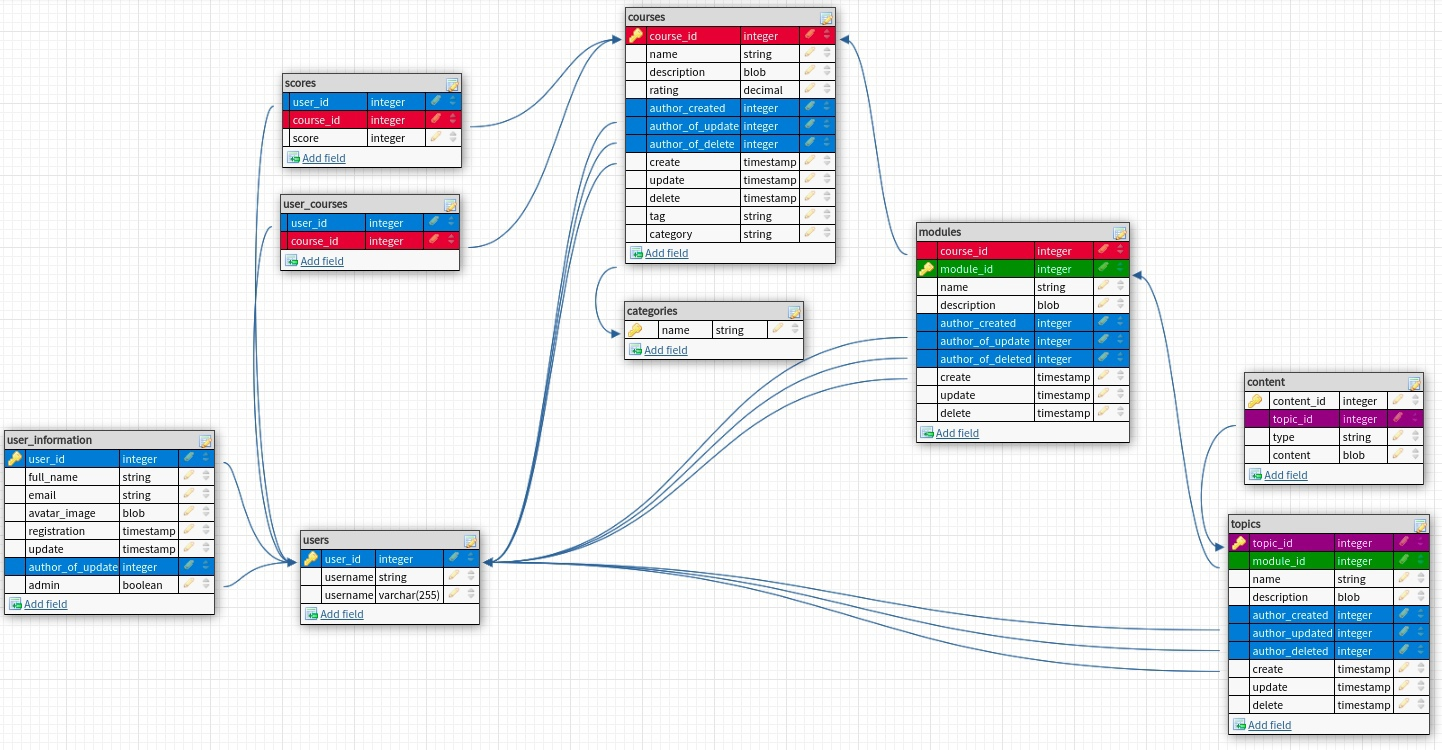
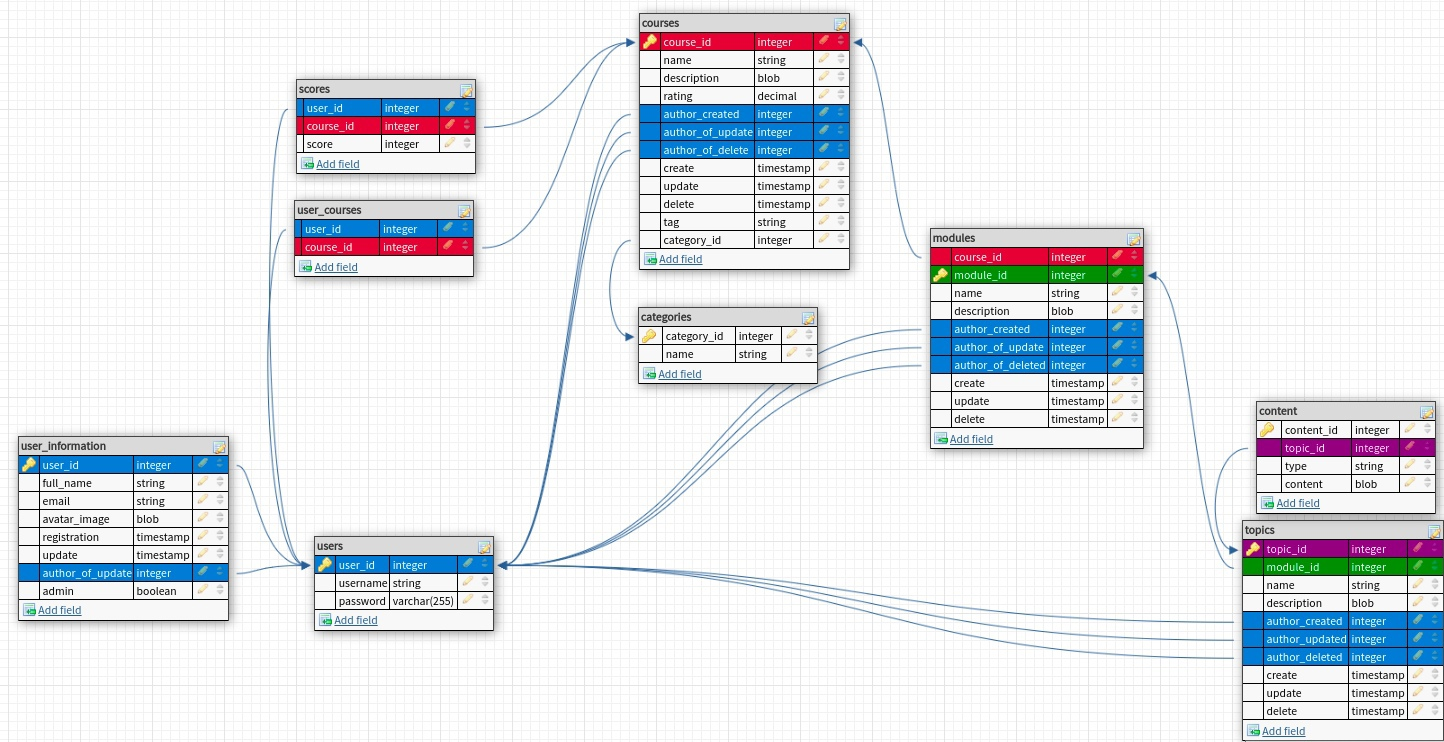
перенос DDL-запросов из README в .sql. Добавление category для обеспечения возможности редактирования его впоследствии

Changed region(s): [[0.0, 0.0, 1.0, 1.0]]

diff --git a/README.md b/README.md
@@ -9,174 +9,3 @@
 6. Добавление курса пользователем к себе: INSERT INTO users_courses VALUES(?, ?)
 7. Создание топика: INSERT INTO topics VALUES(?,...,?)
 
-Сгенерированные DDL:
-CREATE TABLE "users" (
-	"user_id" serial NOT NULL,
-	"username" varchar(100) NOT NULL,
-	"password" varchar(255) NOT NULL,
-	CONSTRAINT "users_pk" PRIMARY KEY ("user_id")
-) WITH (
-  OIDS=FALSE
-);
-
-
-
-CREATE TABLE "user_information" (
-	"user_id" serial NOT NULL,
-	"full_name" varchar(100) NOT NULL,
-	"email" varchar(100) NOT NULL,
-	"avatar_image" bytea NOT NULL,
-	"registration" TIMESTAMP NOT NULL,
-	"update" TIMESTAMP NOT NULL,
-	"author_of_update" integer NOT NULL,
-	"admin" BOOLEAN NOT NULL,
-	CONSTRAINT "user_information_pk" PRIMARY KEY ("user_id")
-) WITH (
-  OIDS=FALSE
-);
-
-ALTER TABLE "user_information" ADD CONSTRAINT "user_information_fk0" FOREIGN KEY ("user_id") REFERENCES "users"("user_id");
-ALTER TABLE "user_information" ADD CONSTRAINT "user_information_fk1" FOREIGN KEY ("author_of_update") REFERENCES "users"("user_id");
-
-
-CREATE TABLE "categories" (
-	"name" VARCHAR(100) NOT NULL,
-	CONSTRAINT "categories_pk" PRIMARY KEY ("name")
-) WITH (
-  OIDS=FALSE
-);
-
-
-CREATE TABLE "courses" (
-	"course_id" serial NOT NULL,
-	"name" VARCHAR(100) NOT NULL,
-	"description" bytea NOT NULL,
-	"rating" DECIMAL NOT NULL,
-	"author_created" serial NOT NULL,
-	"author_of_update" serial NOT NULL,
-	"author_of_delete" serial NOT NULL,
-	"create" TIMESTAMP NOT NULL,
-	"update" TIMESTAMP NOT NULL,
-	"delete" TIMESTAMP NOT NULL,
-	"tag" varchar(100) NOT NULL,
-	"category" varchar(100) NOT NULL,
-	CONSTRAINT "courses_pk" PRIMARY KEY ("course_id")
-) WITH (
-  OIDS=FALSE
-);
-
-ALTER TABLE "courses" ADD CONSTRAINT "courses_fk0" FOREIGN KEY ("author_created") REFERENCES "users"("user_id");
-ALTER TABLE "courses" ADD CONSTRAINT "courses_fk1" FOREIGN KEY ("author_of_update") REFERENCES "users"("user_id");
-ALTER TABLE "courses" ADD CONSTRAINT "courses_fk2" FOREIGN KEY ("author_of_delete") REFERENCES "users"("user_id");
-ALTER TABLE "courses" ADD CONSTRAINT "courses_fk3" FOREIGN KEY ("category") REFERENCES "categories"("name");
-
-
-CREATE TABLE "scores" (
-	"user_id" integer NOT NULL,
-	"course_id" integer NOT NULL,
-	"score" integer NOT NULL
-) WITH (
-  OIDS=FALSE
-);
-
-ALTER TABLE "scores" ADD CONSTRAINT "scores_fk0" FOREIGN KEY ("user_id") REFERENCES "users"("user_id");
-ALTER TABLE "scores" ADD CONSTRAINT "scores_fk1" FOREIGN KEY ("course_id") REFERENCES "courses"("course_id");
-
-
-
-
-
-
-CREATE TABLE "user_courses" (
-	"user_id" integer NOT NULL,
-	"course_id" integer NOT NULL
-) WITH (
-  OIDS=FALSE
-);
-
-ALTER TABLE "user_courses" ADD CONSTRAINT "user_courses_fk0" FOREIGN KEY ("user_id") REFERENCES "users"("user_id");
-ALTER TABLE "user_courses" ADD CONSTRAINT "user_courses_fk1" FOREIGN KEY ("course_id") REFERENCES "courses"("course_id");
-
-
-
-
-
-
-CREATE TABLE "modules" (
-	"course_id" integer NOT NULL,
-	"module_id" serial NOT NULL,
-	"name" varchar(100) NOT NULL,
-	"description" bytea NOT NULL,
-	"author_created" serial NOT NULL,
-	"author_of_update" integer NOT NULL,
-	"author_of_deleted" integer NOT NULL,
-	"create" TIMESTAMP NOT NULL,
-	"update" TIMESTAMP NOT NULL,
-	"delete" TIMESTAMP NOT NULL,
-	CONSTRAINT "modules_pk" PRIMARY KEY ("module_id")
-) WITH (
-  OIDS=FALSE
-);
-ALTER TABLE "modules" ADD CONSTRAINT "modules_fk0" FOREIGN KEY ("course_id") REFERENCES "courses"("course_id");
-ALTER TABLE "modules" ADD CONSTRAINT "modules_fk1" FOREIGN KEY ("author_created") REFERENCES "users"("user_id");
-ALTER TABLE "modules" ADD CONSTRAINT "modules_fk2" FOREIGN KEY ("author_of_update") REFERENCES "users"("user_id");
-ALTER TABLE "modules" ADD CONSTRAINT "modules_fk3" FOREIGN KEY ("author_of_deleted") REFERENCES "users"("user_id");
-
-
-CREATE TABLE "topics" (
-	"topic_id" serial NOT NULL,
-	"module_id" integer NOT NULL,
-	"name" varchar(100) NOT NULL,
-	"description" bytea NOT NULL,
-	"author_created" integer NOT NULL,
-	"author_updated" integer NOT NULL,
-	"author_deleted" integer NOT NULL,
-	"create" TIMESTAMP NOT NULL,
-	"update" TIMESTAMP NOT NULL,
-	"delete" TIMESTAMP NOT NULL,
-	CONSTRAINT "topics_pk" PRIMARY KEY ("topic_id")
-) WITH (
-  OIDS=FALSE
-);
-
-ALTER TABLE "topics" ADD CONSTRAINT "topics_fk0" FOREIGN KEY ("module_id") REFERENCES "modules"("module_id");
-ALTER TABLE "topics" ADD CONSTRAINT "topics_fk1" FOREIGN KEY ("author_created") REFERENCES "users"("user_id");
-ALTER TABLE "topics" ADD CONSTRAINT "topics_fk2" FOREIGN KEY ("author_updated") REFERENCES "users"("user_id");
-ALTER TABLE "topics" ADD CONSTRAINT "topics_fk3" FOREIGN KEY ("author_deleted") REFERENCES "users"("user_id");
-
-
-
-
-
-
-CREATE TABLE "content" (
-	"content_id" serial NOT NULL,
-	"topic_id" serial NOT NULL,
-	"type" varchar(100) NOT NULL,
-	"content" serial NOT NULL,
-	CONSTRAINT "content_pk" PRIMARY KEY ("content_id")
-) WITH (
-  OIDS=FALSE
-);
-
-
-
-
-ALTER TABLE "content" ADD CONSTRAINT "content_fk0" FOREIGN KEY ("topic_id") REFERENCES "topics"("topic_id");
-
-
-
-
-
-
-
-
-
-
-
-
-
-
-
-
-
